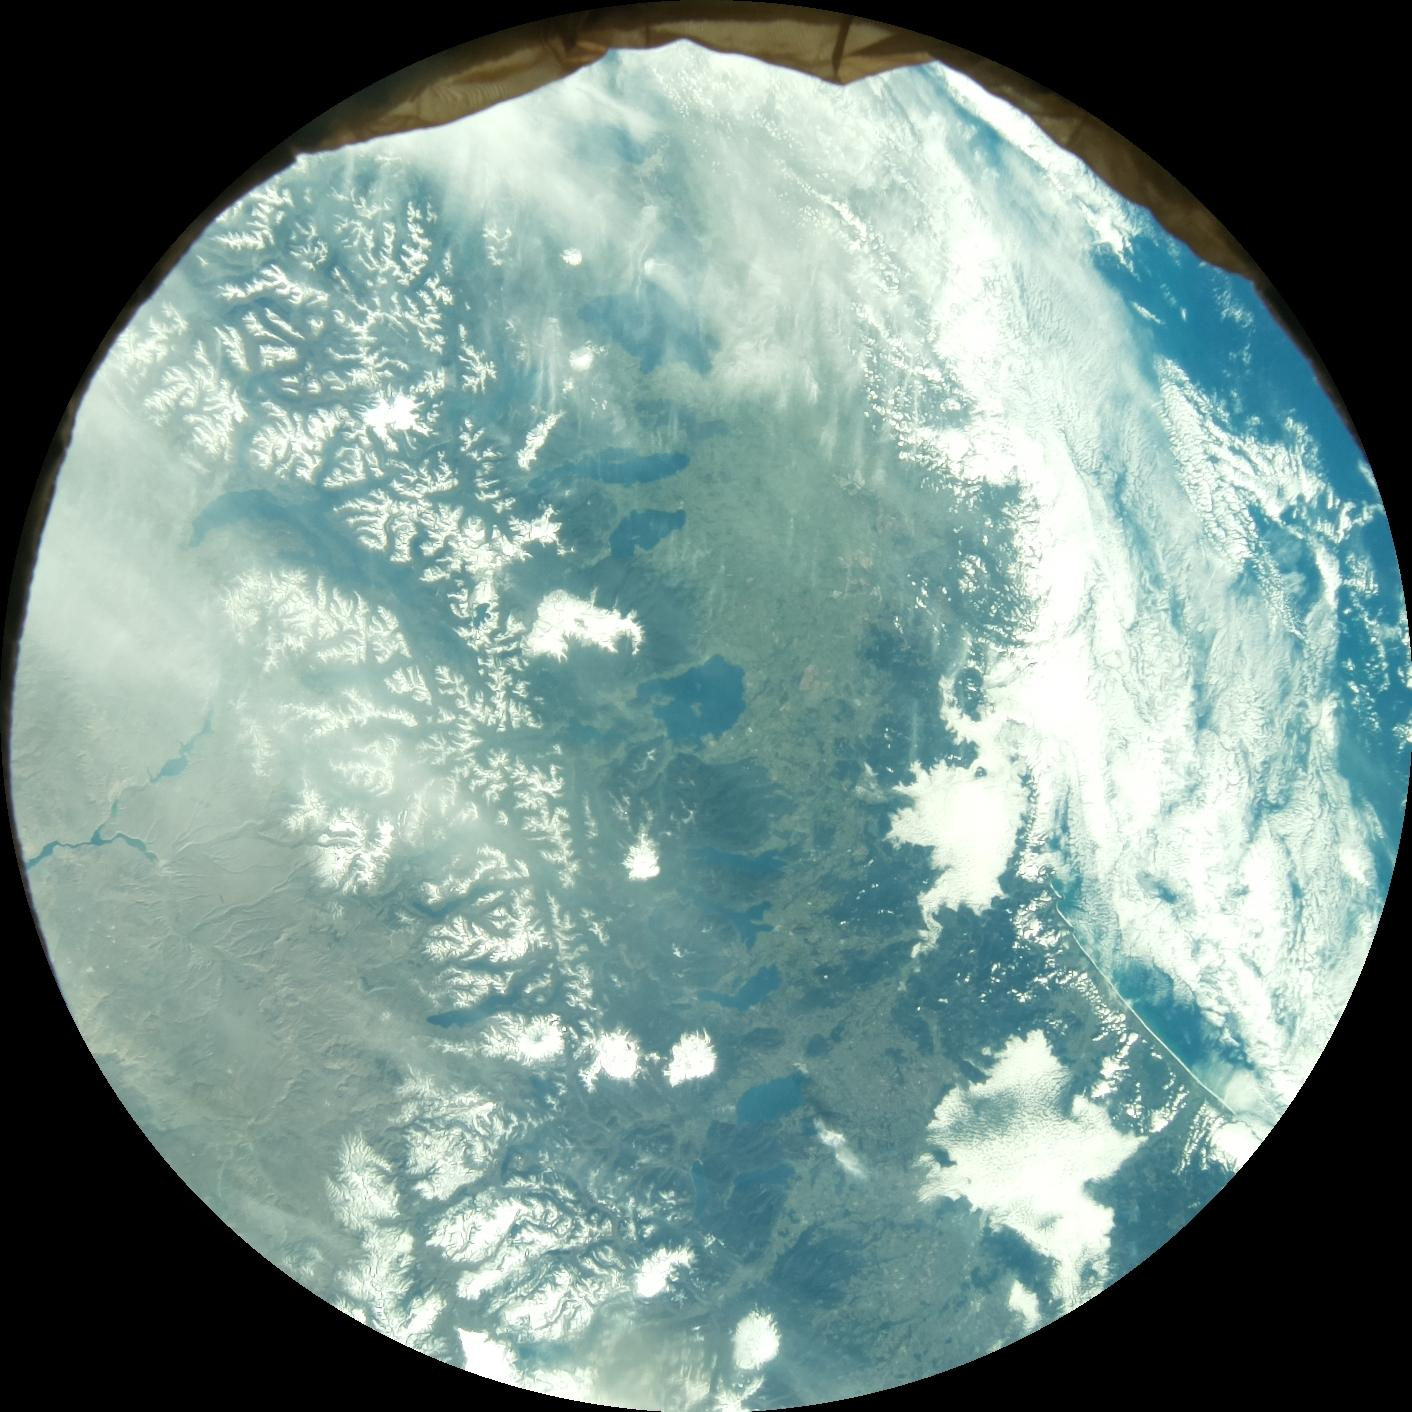
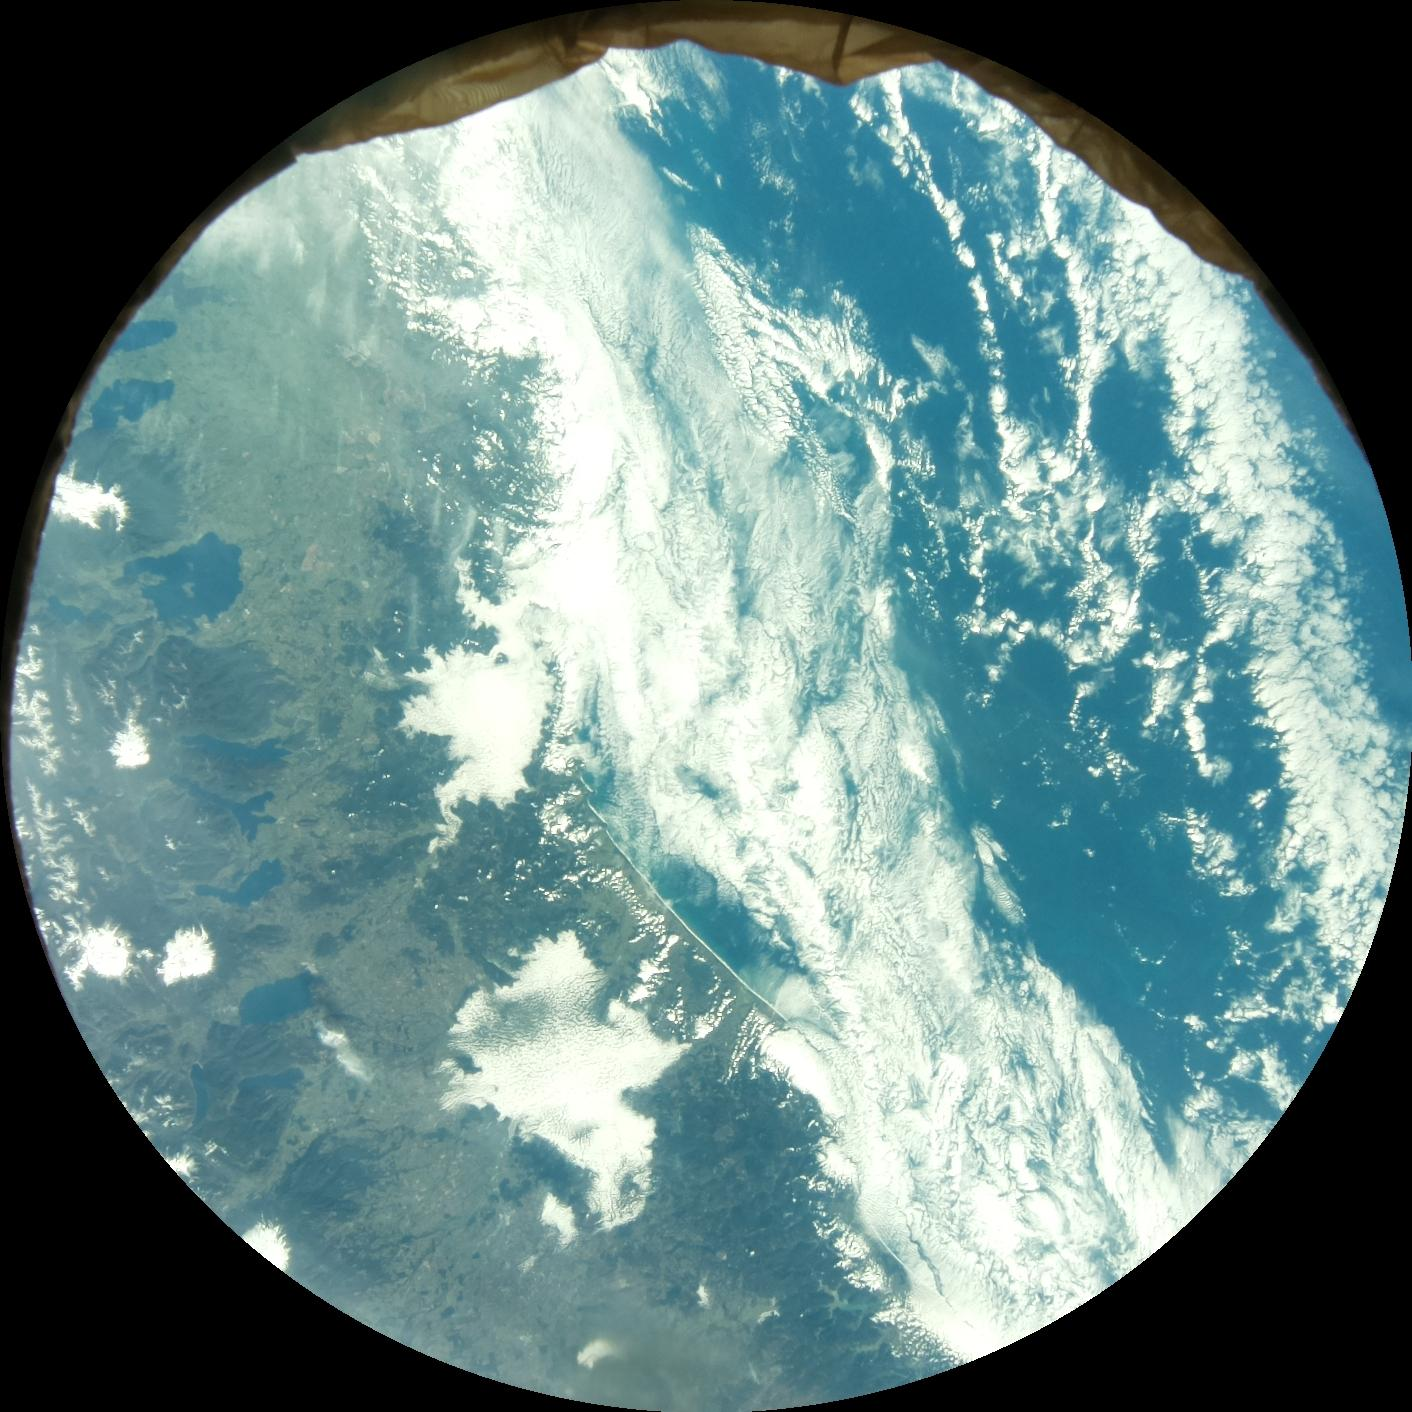
Made changes to iss_speed, result.txt, coordinates.py

diff --git a/altitude.py b/altitude.py
@@ -1,0 +1,128 @@
+from datetime import datetime, timedelta
+from skyfield.api import load, wgs84, EarthSatellite
+
+
+def get_iss_altitude_meters(observation_time: datetime = None) -> float:
+    """
+    Get the current altitude of the ISS in meters using Skyfield's API.
+    
+    This method fetches the real-time ISS altitude above Earth's surface
+    using official Two-Line Element (TLE) data from Celestrak.
+    
+    Args:
+        observation_time (datetime): Time for altitude calculation (default: now)
+    
+    Returns:
+        float: ISS altitude above Earth's surface in meters
+    
+    Raises:
+        Exception: If unable to download TLE data or calculate position
+    
+    Example:
+        altitude_m = get_iss_altitude_meters()
+        altitude_km = altitude_m / 1000
+        print(f"ISS altitude: {altitude_km:.2f} km ({altitude_m:.2f} m)")
+        
+        # Get altitude at a specific time
+        from datetime import datetime, timedelta
+        future_time = datetime.now() + timedelta(hours=2)
+        alt_m = get_iss_altitude_meters(observation_time=future_time)
+    """
+    try:
+        # Load ephemeris and ISS data
+        ts = load.timescale()
+        eph = load('de421.bsp')
+        
+        # Load ISS satellite TLE data from Celestrak
+        satellites = load.tle_file('https://celestrak.com/NORAD/elements/stations.txt')
+        by_name = {sat.name: sat for sat in satellites}
+        iss = by_name['ISS (ZARYA)']
+        
+        # Set observation time (default to current time)
+        if observation_time is None:
+            t = ts.now()
+        else:
+            t = ts.from_datetime(observation_time)
+        
+        # Get ISS geocentric position (position relative to Earth's center)
+        # The ISS satellite object has coordinates in ITRF frame (Earth-centered)
+        position = iss.at(t)
+        
+        # Get position vector from Earth's center (in km)
+        # The .position property gives us x, y, z coordinates
+        x, y, z = position.position.km
+        
+        # Calculate distance from Earth's center
+        distance_from_earth_center = (x**2 + y**2 + z**2) ** 0.5
+        
+        # Earth's mean radius in km
+        earth_radius_km = 6371.0
+        
+        # Altitude above Earth's surface
+        altitude_km = distance_from_earth_center - earth_radius_km
+        altitude_meters = altitude_km * 1000.0
+        
+        return altitude_meters
+    
+    except Exception as e:
+        print(f"Error fetching ISS altitude: {e}")
+        print("Using fallback ISS altitude: 408,000 meters")
+        # Fallback to typical ISS altitude in meters
+        return 408000.0
+
+
+def calculate_gsd(altitude: float = None, focal_length: float = 11.8, pixel_size: float = 1.55) -> float:
+    """
+    Calculate Ground Sample Distance (GSD) for aerial/satellite imagery.
+    
+    GSD represents the physical distance (in meters) on the ground that corresponds
+    to one pixel in the image. It's essential for determining the scale of features
+    detected in satellite imagery.
+    
+    When altitude is not provided, this function automatically fetches the current
+    ISS altitude using Skyfield's API and Two-Line Element (TLE) data.
+    
+    Args:
+        altitude (float): Altitude of the camera/satellite in meters (default: fetch current ISS altitude using Skyfield)
+        focal_length (float): Focal length of the camera in millimeters (default: 11.8mm)
+        pixel_size (float): Size of each pixel in micrometers (default: 1.55µm)
+    
+    Returns:
+        float: Ground Sample Distance in meters per pixel
+    
+    Formula: GSD = (altitude * pixel_size) / focal_length
+    
+    Example:
+        # Using current ISS altitude from Skyfield API
+        gsd = calculate_gsd()
+        print(f"Current ISS GSD: {gsd:.4f} meters/pixel")
+        
+        # Using custom altitude
+        gsd = calculate_gsd(altitude=408000, focal_length=35, pixel_size=3.45)
+        print(f"Custom GSD: {gsd:.4f} meters/pixel")
+    """
+    # Fetch current ISS altitude using Skyfield API if not provided
+    if altitude is None:
+        altitude = get_iss_altitude_meters()
+    
+    # Validate inputs
+    if focal_length <= 0:
+        raise ValueError("Focal length must be greater than 0")
+    if pixel_size <= 0:
+        raise ValueError("Pixel size must be greater than 0")
+    if altitude < 0:
+        raise ValueError("Altitude cannot be negative")
+    
+    # Calculate GSD: GSD = (altitude * pixel_size) / focal_length
+    gsd = (altitude * pixel_size) / focal_length
+    
+    return gsd
+
+# Get current ISS altitude in meters
+alt_m = get_iss_altitude_meters()
+print(f"ISS altitude: {alt_m/1000:.2f} km")
+
+# Calculate GSD - this now returns a real value!
+gsd = calculate_gsd()
+print(f"GSD: {gsd:.4f} meters/pixel")
+print('Done loading altitude.py')

diff --git a/iss_speed.py b/iss_speed.py
@@ -5,6 +5,8 @@ import cv2
 import math
 from time import sleep
 from picamzero import Camera
+from typing import Tuple
+from skyfield.api import Topos, load, wgs84
 
 def get_time(image):
     with open(image, 'rb') as image_file:
@@ -66,7 +68,106 @@ def calculate_mean_distance(coordinates_1, coordinates_2):
         all_distances = all_distances + distance
         return all_distances / len(merged_coordinates)
     
+def get_iss_altitude_meters(observation_time: datetime = None) -> float:
+    """
+    Get the current altitude of the ISS in meters using Skyfield's API.
     
+    This method fetches the real-time ISS altitude above Earth's surface
+    using official Two-Line Element (TLE) data from Celestrak.
+    
+    Args:
+        observation_time (datetime): Time for altitude calculation (default: now)
+    
+    Returns:
+        float: ISS altitude above Earth's surface in meters
+    
+    Raises:
+        Exception: If unable to download TLE data or calculate position
+    
+    Example:
+        altitude_m = get_iss_altitude_meters()
+        altitude_km = altitude_m / 1000
+        print(f"ISS altitude: {altitude_km:.2f} km ({altitude_m:.2f} m)")
+        
+        # Get altitude at a specific time
+        from datetime import datetime, timedelta
+        future_time = datetime.now() + timedelta(hours=2)
+        alt_m = get_iss_altitude_meters(observation_time=future_time)
+    """
+    try:
+        # Load ephemeris and ISS data
+        ts = load.timescale()
+        eph = load('de421.bsp')
+        
+        # Load ISS satellite TLE data from Celestrak
+        satellites = load.tle_file('https://celestrak.com/NORAD/elements/stations.txt')
+        by_name = {sat.name: sat for sat in satellites}
+        iss = by_name['ISS (ZARYA)']
+        
+        # Set observation time (default to current time)
+        if observation_time is None:
+            t = ts.now()
+        else:
+            t = ts.from_datetime(observation_time)
+        
+        # Calculate ISS position relative to Earth's center
+        earth = eph['earth']
+        position_vector = earth.at(t).observe(iss)
+        
+        # Convert to WGS84 geographic coordinates
+        location = wgs84.latlong_of(position_vector)
+        
+        # Extract altitude in kilometers and convert to meters
+        altitude_km = location[2].km
+        altitude_meters = altitude_km * 1000.0
+        
+        return altitude_meters
+    
+    except Exception as e:
+        print(f"Error fetching ISS altitude: {e}")
+        print("Using fallback ISS altitude: 408,000 meters")
+        # Fallback to typical ISS altitude in meters
+        return 408000.0
+    
+def calculate_gsd(altitude: float = None, focal_length: float = 11.8, pixel_size: float = 1.55) -> float:
+    if altitude is None:
+        altitude = get_iss_altitude_meters()  # Call it inside the function
+    """
+    Calculate Ground Sample Distance (GSD) for aerial/satellite imagery.
+    
+    GSD represents the physical distance (in meters) on the ground that corresponds
+    to one pixel in the image. It's essential for determining the scale of features
+    detected in satellite imagery.
+    
+    Args:
+        altitude (float): Altitude of the camera/satellite in meters
+        focal_length (float): Focal length of the camera in millimeters
+        pixel_size (float): Size of each pixel in micrometers
+    
+    Returns:
+        float: Ground Sample Distance in meters per pixel
+    
+    Formula: GSD = (altitude * pixel_size) / focal_length
+    
+    Example for ISS:
+        - ISS altitude: ~408,000 meters
+        - Typical focal length: 35mm
+        - Typical pixel size: 3.45 micrometers (for Raspberry Pi HQ Camera)
+        GSD ≈ (408000 * 3.45e-6) / 35 ≈ 0.404 meters per pixel
+    """
+    if focal_length <= 0:
+        raise ValueError("Focal length must be greater than 0")
+    if pixel_size <= 0:
+        raise ValueError("Pixel size must be greater than 0")
+    if altitude < 0:
+        raise ValueError("Altitude cannot be negative")
+    
+    # Convert pixel_size from micrometers to millimeters if needed
+    # pixel_size should be in the same units as focal_length for calculation
+    gsd = (altitude * pixel_size) / focal_length
+    
+    return gsd
+
 def calculate_speed_in_kmps(feature_distance, GSD, time_difference):
     distance = feature_distance * GSD / 100000
     #distance = feature_distance * 4414.859 / 100000
@@ -103,6 +204,7 @@ def calculate_speed():
     #display_matches(image_1_cv, keypoints_1, image_2_cv, keypoints_2, matches) # Display matches
     coordinates_1, coordinates_2 = find_matching_coordinates(keypoints_1, keypoints_2, matches)
     average_feature_distance = calculate_mean_distance(coordinates_1, coordinates_2)
+    gsd = calculate_gsd()
     speed = calculate_speed_in_kmps(average_feature_distance, 12648, time_difference)
     #print(speed)
     return speed

diff --git a/coordinates.py b/coordinates.py
@@ -14,7 +14,9 @@ for _ in range(100):
     time_1 = datetime.now(UTC)
     moment_1 = time_scale.from_datetime(time_1)
     position_1 = iss.at(moment_1)
+
     sleep(time)
+
     time_2 = datetime.now(UTC)
     moment_2 = time_scale.from_datetime(time_2)
     position_2 = iss.at(moment_2)